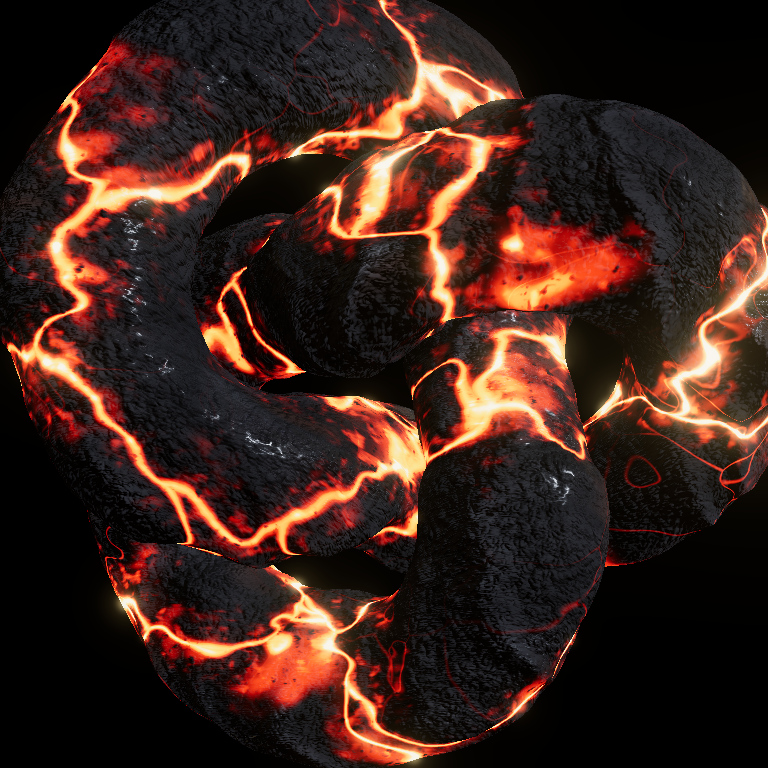
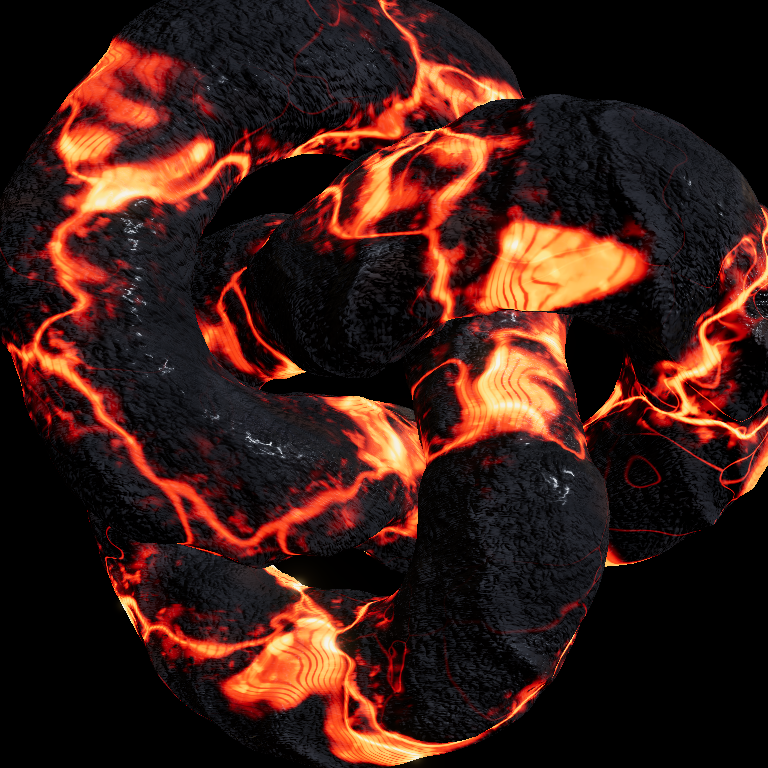
Match reference lava: flow striations, contact rims, WGSL-side glow
The glow composition moves entirely into lava.wgsl as lavaGlow(),
returning heat plus a continuous-melt mask, so TSL only wires nodes.
Melt washes gain flowStriations — thin cooled cords fanning through the
melt skin at reference density (~50 per lobe), subtracted from heat so
crests read deep red over orange — plus white-hot contact rims at wash
edges and around floating crust islands, matching the reference photos.
The ember-fringe seep now applies only over solid crust, keeping the
melt laminar. A new field-viz script renders any exported field to PNG
with pure vgpu/node (blackbody-colored heat, melt mask, striations,
crust height; span/center zoom), which is how the striation profile,
frequency, and rim balance were tuned against zoomed reference crops.

Claude-Session: https://claude.ai/code/session_016LagSa3e7nym5icJi3TRmZ

diff --git a/examples/three-tsl/scripts/field-viz.ts b/examples/three-tsl/scripts/field-viz.ts
@@ -1,0 +1,76 @@
+// Field visualizer: renders lava.wgsl's exported fields to PNGs using pure
+// vgpu/node — no three involved. Use it to inspect and tune internal fields
+// (heat through the blackbody ramp, melt mask, striations, crust height)
+// on the same 2D slice the plane demo shows.
+//
+//   pnpm --filter @vgpu/example-three-tsl field-viz [heat|melt|striae|crust ...]
+//
+// Needs the same Vulkan ICD environment as generate-previews.ts.
+import { mkdirSync, writeFileSync } from "node:fs";
+import { fileURLToPath } from "node:url";
+import { resolveShader } from "@vgpu/wgsl/runtime";
+import { init } from "vgpu/node";
+import { PNG } from "pngjs";
+
+const SIZE = 640;
+const FRAME_TIME = 8;
+const EXAMPLE_DIR = fileURLToPath(new URL("../", import.meta.url));
+const OUT_DIR = `${EXAMPLE_DIR}field-viz/`;
+
+const MODES: Record<string, number> = { heat: 0, melt: 1, striae: 2, crust: 3 };
+
+const VIZ_ENTRY = `${OUT_DIR}entry.wgsl`;
+const VIZ_SOURCE = /* wgsl */ `
+import { lavaGlow, flowStriations, blackbody, crustHeight } from "../src/lava.wgsl";
+
+struct Params { mode: f32, t: f32, span: f32, center: vec2f }
+@group(0) @binding(0) var<uniform> params: Params;
+
+@fragment fn fs_main(@location(0) uv: vec2f) -> @location(0) vec4f {
+  // Same slice the plane demo samples: local XY in [-span/2, span/2], z = 0.
+  let p = vec3f((uv.x - 0.5) * params.span + params.center.x, (0.5 - uv.y) * params.span + params.center.y, 0.0);
+  if (params.mode < 0.5) {
+    let glow = lavaGlow(p, params.t);
+    return vec4f(blackbody(glow.x), 1.0);
+  } else if (params.mode < 1.5) {
+    let melt = lavaGlow(p, params.t).y;
+    return vec4f(melt, melt, melt, 1.0);
+  } else if (params.mode < 2.5) {
+    let striae = flowStriations(p, params.t);
+    return vec4f(striae, striae, striae, 1.0);
+  }
+  let height = crustHeight(p, params.t);
+  return vec4f(height, height, height, 1.0);
+}
+`;
+
+const args = process.argv.slice(2);
+const fields = args.filter((name) => name in MODES);
+const selected = fields.length > 0 ? fields : Object.keys(MODES);
+// Optional zoom: span=<world units across the image> (default 4.4, the
+// plane demo's width) and center=<x,y> to look at a specific spot.
+const span = Number(args.find((a) => a.startsWith("span="))?.slice(5) ?? "4.4");
+const center = (args.find((a) => a.startsWith("center="))?.slice(7) ?? "0,0").split(",").map(Number);
+
+// The entry is written to disk so imports resolve against the real files.
+mkdirSync(OUT_DIR, { recursive: true });
+writeFileSync(VIZ_ENTRY, VIZ_SOURCE);
+const resolved = await resolveShader({ entry: VIZ_ENTRY });
+
+const gpu = await init();
+const target = gpu.target({ size: [SIZE, SIZE], format: "rgba8unorm" });
+mkdirSync(OUT_DIR, { recursive: true });
+
+for (const name of selected) {
+  const effect = gpu.effect({ version: 1, wgsl: resolved.wgsl }, { set: { params: { mode: MODES[name]!, t: FRAME_TIME, span, center } } });
+  effect.draw(target);
+  const pixels = new Uint8Array(await target.read());
+  const png = new PNG({ width: SIZE, height: SIZE });
+  png.data.set(pixels);
+  for (let i = 3; i < png.data.length; i += 4) png.data[i] = 255;
+  const file = `${OUT_DIR}${name}.png`;
+  writeFileSync(file, PNG.sync.write(png));
+  console.log(`wrote ${file}`);
+}
+
+gpu.dispose();

diff --git a/examples/three-tsl/src/lava-material.ts b/examples/three-tsl/src/lava-material.ts
@@ -4,8 +4,8 @@ import type { Node } from "three/webgpu";
 import lavaModule from "./lava.wgsl";
 import { tslExports } from "./wgsl-tsl.ts";
 
-const { lavaHeat, blackbody, crustHeight, crustSurface, crustPbr, lavaSink, microDetail } = tslExports(lavaModule, [
-  "lavaHeat",
+const { lavaGlow, blackbody, crustHeight, crustSurface, crustPbr, lavaSink, microDetail } = tslExports(lavaModule, [
+  "lavaGlow",
   "blackbody",
   "crustHeight",
   "crustSurface",
@@ -38,7 +38,12 @@ export function createLavaMaterial(options: LavaMaterialOptions = {}): LavaMater
   const t = options.timeNode ?? time;
 
   const p = positionLocal.mul(scale);
-  const heat = lavaHeat({ position: p, t });
+  // The whole glow composition (laminar melt with striations and contact
+  // rims, plus the grain-seeped ember fringe) lives in lava.wgsl: x = heat,
+  // y = continuous-melt mask.
+  const glow = lavaGlow({ position: p, t });
+  const heat = glow.x;
+  const molten = glow.y;
   const height = crustHeight({ position: p, t });
   const surface = crustSurface({ position: p, t });
   const tone = surface.x;
@@ -47,21 +52,11 @@ export function createLavaMaterial(options: LavaMaterialOptions = {}): LavaMater
   const pits = surface.w;
 
   // High-frequency surface detail: mineral grain plus flow-line streaks
-  // frozen into the glassy skin. Shared by the glow seep mask, the
-  // roughness map, and the micro normal pass below.
+  // frozen into the glassy skin. Shared by the roughness map and the micro
+  // normal pass below.
   const micro = microDetail({ position: p });
   const grain = micro.x;
   const streaks = micro.y;
-
-  // The dim fringe of the glow seeps through the micro grain instead of
-  // sitting painted on top of it: crevices let heat through, grain bumps
-  // occlude it, and hot cores burn through everything.
-  const seep = smoothstep(0.62, 0.25, grain);
-  const burnThrough = smoothstep(0.5, 0.85, heat);
-  const glowHeat = heat.mul(mix(seep, float(1), burnThrough));
-
-  // How exposed the melt is: crust occludes low heat completely.
-  const molten = smoothstep(0.3, 0.75, glowHeat);
 
   const material = new THREE.MeshPhysicalNodeMaterial({ metalness: 0 });
 
@@ -74,10 +69,10 @@ export function createLavaMaterial(options: LavaMaterialOptions = {}): LavaMater
   const basalt = mix(stained, stained.mul(0.45), pits);
   material.colorNode = mix(basalt, vec3(0.012, 0.01, 0.009), molten);
 
-  // Incandescence: blackbody ramp over the seeped heat field, crushed
-  // slightly so crack cores go yellow-white while edges cool through deep
-  // red inside the grain crevices.
-  material.emissiveNode = blackbody({ t: glowHeat.pow(1.35) }).mul(glowIntensity);
+  // Incandescence: blackbody ramp over the composed heat field, crushed
+  // slightly so contact rims go yellow-white while striation crests cool
+  // through deep red.
+  material.emissiveNode = blackbody({ t: heat.pow(1.35) }).mul(glowIntensity);
 
   // Roughness map, not a constant: rubble is matte with sharp grain breakup,
   // the glassy skin is polished but streaked by flow lines, vesicle pits and

diff --git a/examples/three-tsl/tests/wgsl-tsl.test.ts b/examples/three-tsl/tests/wgsl-tsl.test.ts
@@ -61,14 +61,14 @@ describe("tslExports over a vgpu-resolved module", () => {
     const entry = fileURLToPath(new URL("../src/lava.wgsl", import.meta.url));
     const resolved = await resolveShader({ entry });
 
-    const names = ["lavaHeat", "blackbody", "crustHeight", "crustSurface", "crustPbr", "lavaSink", "microDetail"] as const;
+    const names = ["lavaGlow", "flowStriations", "blackbody", "crustHeight", "crustSurface", "crustPbr", "lavaSink", "microDetail"] as const;
     const nodes = tslExports(resolved.wgsl, names);
     for (const name of names) expect(typeof nodes[name]).toBe("function");
 
-    // lavaHeat's signature survives the flatten+mangle round trip.
-    const header = parseFunctionHeader(resolved.wgsl, "lavaHeat");
+    // lavaGlow's signature survives the flatten+mangle round trip.
+    const header = parseFunctionHeader(resolved.wgsl, "lavaGlow");
     expect(header.paramNames).toEqual(["position", "t"]);
-    expect(header.returnType).toBe("f32");
+    expect(header.returnType).toBe("vec2f");
   });
 
   it("wraps the flattened module graph by authored names", async () => {
@@ -76,7 +76,7 @@ describe("tslExports over a vgpu-resolved module", () => {
     const resolved = await resolveShader({ entry });
 
     // Non-entry-point functions are mangled per module; export keywords are gone.
-    expect(resolved.wgsl).toMatch(/fn _vgsl_[0-9a-f]{8}__lavaHeat\(/);
+    expect(resolved.wgsl).toMatch(/fn _vgsl_[0-9a-f]{8}__lavaGlow\(/);
     expect(resolved.wgsl).toMatch(/_vgsl_[0-9a-f]{8}__voronoi3d/);
     expect(resolved.wgsl).not.toMatch(/\bexport\b/);
 
@@ -87,9 +87,9 @@ describe("tslExports over a vgpu-resolved module", () => {
     expect(forwardingWrapper(header)).toContain(`return ${header.resolvedName}(t);`);
 
     // wgslFn returns a callable; invoking it with named inputs builds a call node.
-    const nodes = tslExports(resolved.wgsl, ["lavaHeat", "blackbody"]);
+    const nodes = tslExports(resolved.wgsl, ["lavaGlow", "blackbody"]);
     expect(typeof nodes.blackbody).toBe("function");
-    const call = nodes.lavaHeat({ position: vec3(0, 0, 0), t: 6 });
+    const call = nodes.lavaGlow({ position: vec3(0, 0, 0), t: 6 });
     expect(call.isNode).toBe(true);
   });
 });

diff --git a/examples/three-tsl/README.md b/examples/three-tsl/README.md
@@ -26,6 +26,7 @@ src/scenes.ts          shared scene/lights/mesh builders
 src/main.ts            torus knot scene, WebGPURenderer
 src/harness.ts         offscreen render smoke check (also runs headless)
 scripts/generate-previews.ts  headless preview renders on vgpu/node (Dawn)
+scripts/field-viz.ts          renders lava.wgsl fields to PNGs with pure vgpu
 ```
 
 ## Run
@@ -42,13 +43,13 @@ Open the printed URL in a WebGPU-capable browser.
 Everything procedural lives in `lava.wgsl` and flows into the material as
 TSL nodes:
 
-- `lavaHeat` — three registers of glow, matching how real flows read:
+- `lavaGlow` — the full glow composition as `vec2f(heat, meltMask)`:
   variable-width incandescent cracks along fbm-warped voronoi plate
-  boundaries (`f2 - f1` from `@vgpu/wgsl-std/noise`) with hairline
-  secondaries gated by an "activity" field; patchy melt washes flanking the
-  main channels with darker crust islands floating on them; and a
-  two-size ember speckle that glows in the joints of the same rubble grain
-  the relief shows.
+  boundaries (`f2 - f1` from `@vgpu/wgsl-std/noise`); melt washes flanking
+  the channels, textured by `flowStriations` (thin cooled cords fanning
+  through the melt skin, ~50 per lobe) with white-hot contact rims at wash
+  edges and around floating crust islands; and an ember fringe over solid
+  crust that only seeps through the crevices of the micro grain.
 - `blackbody` — incandescence ramp (black → deep red → orange → yellow-white)
   feeding `emissiveNode` with HDR intensity under ACES tone mapping.
 - `crustHeight` — plate relief plus pahoehoe rope folds on lobe patches,
